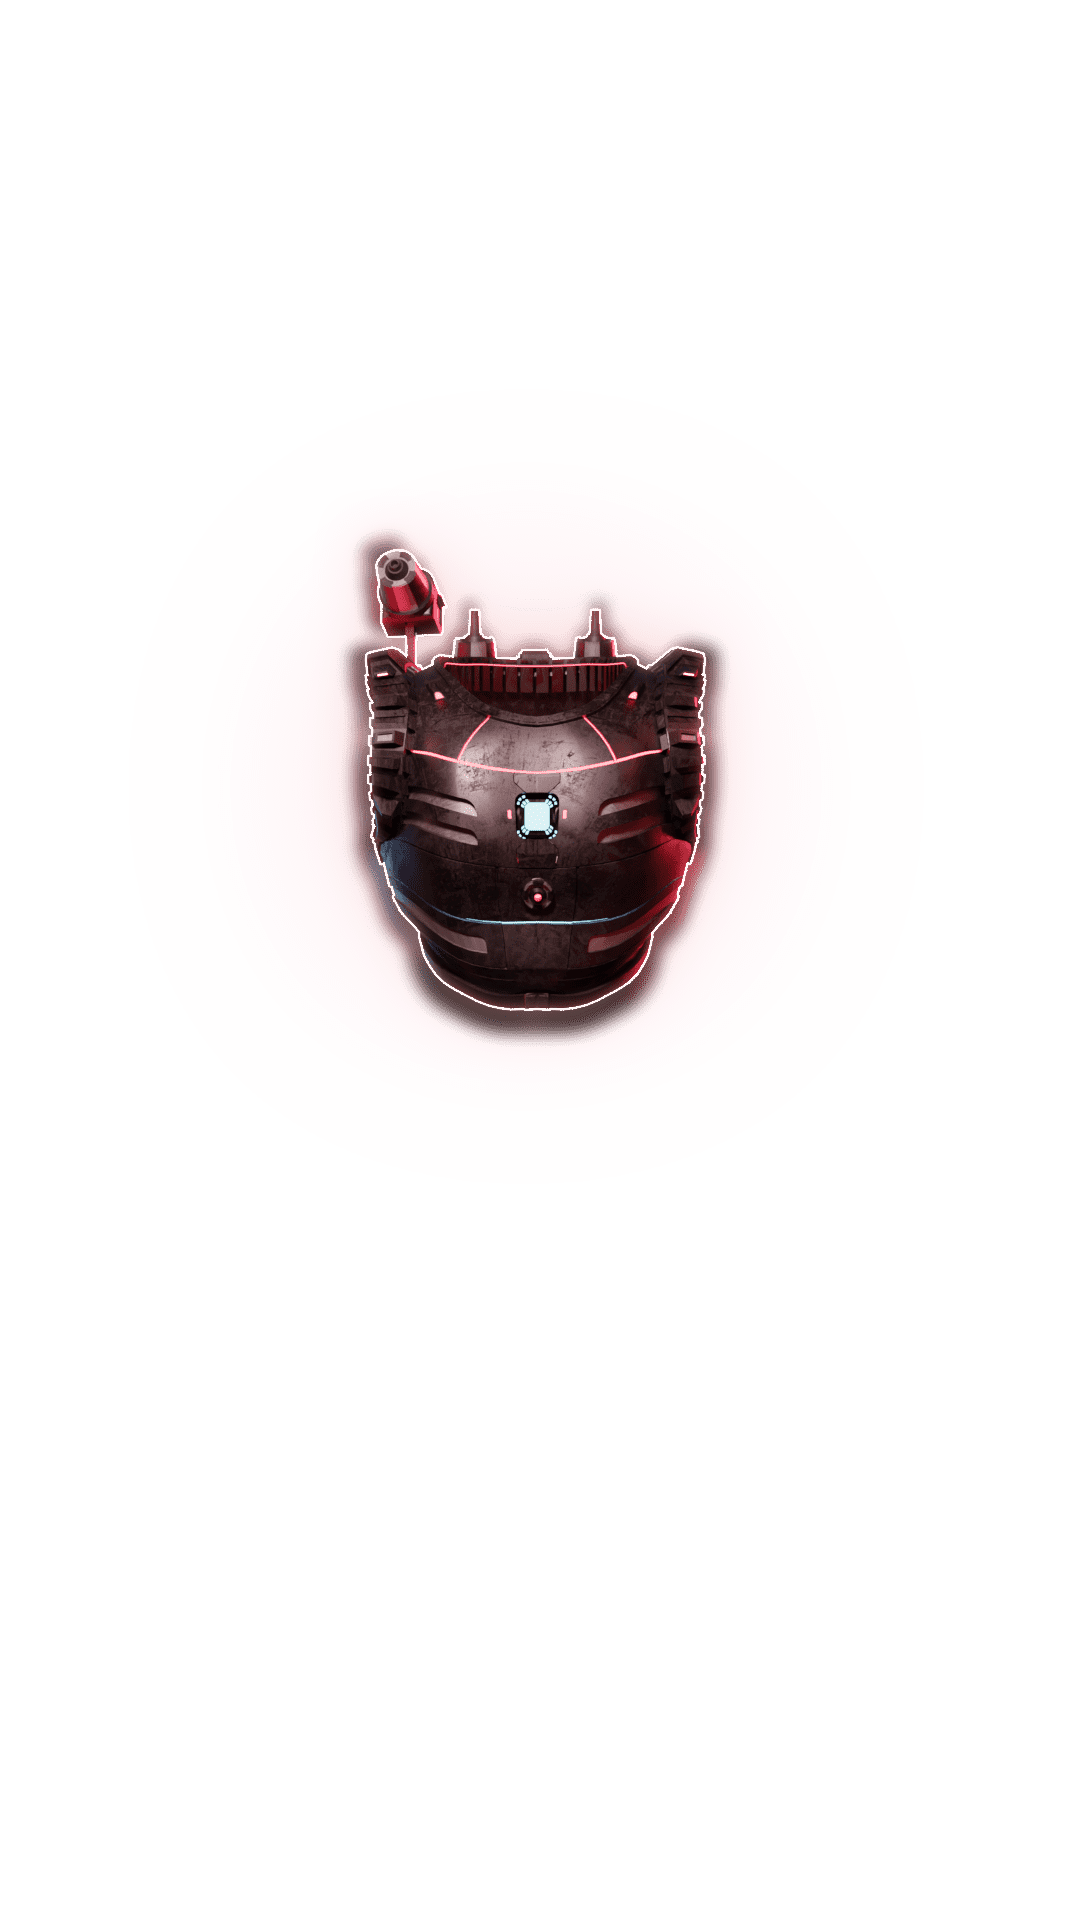
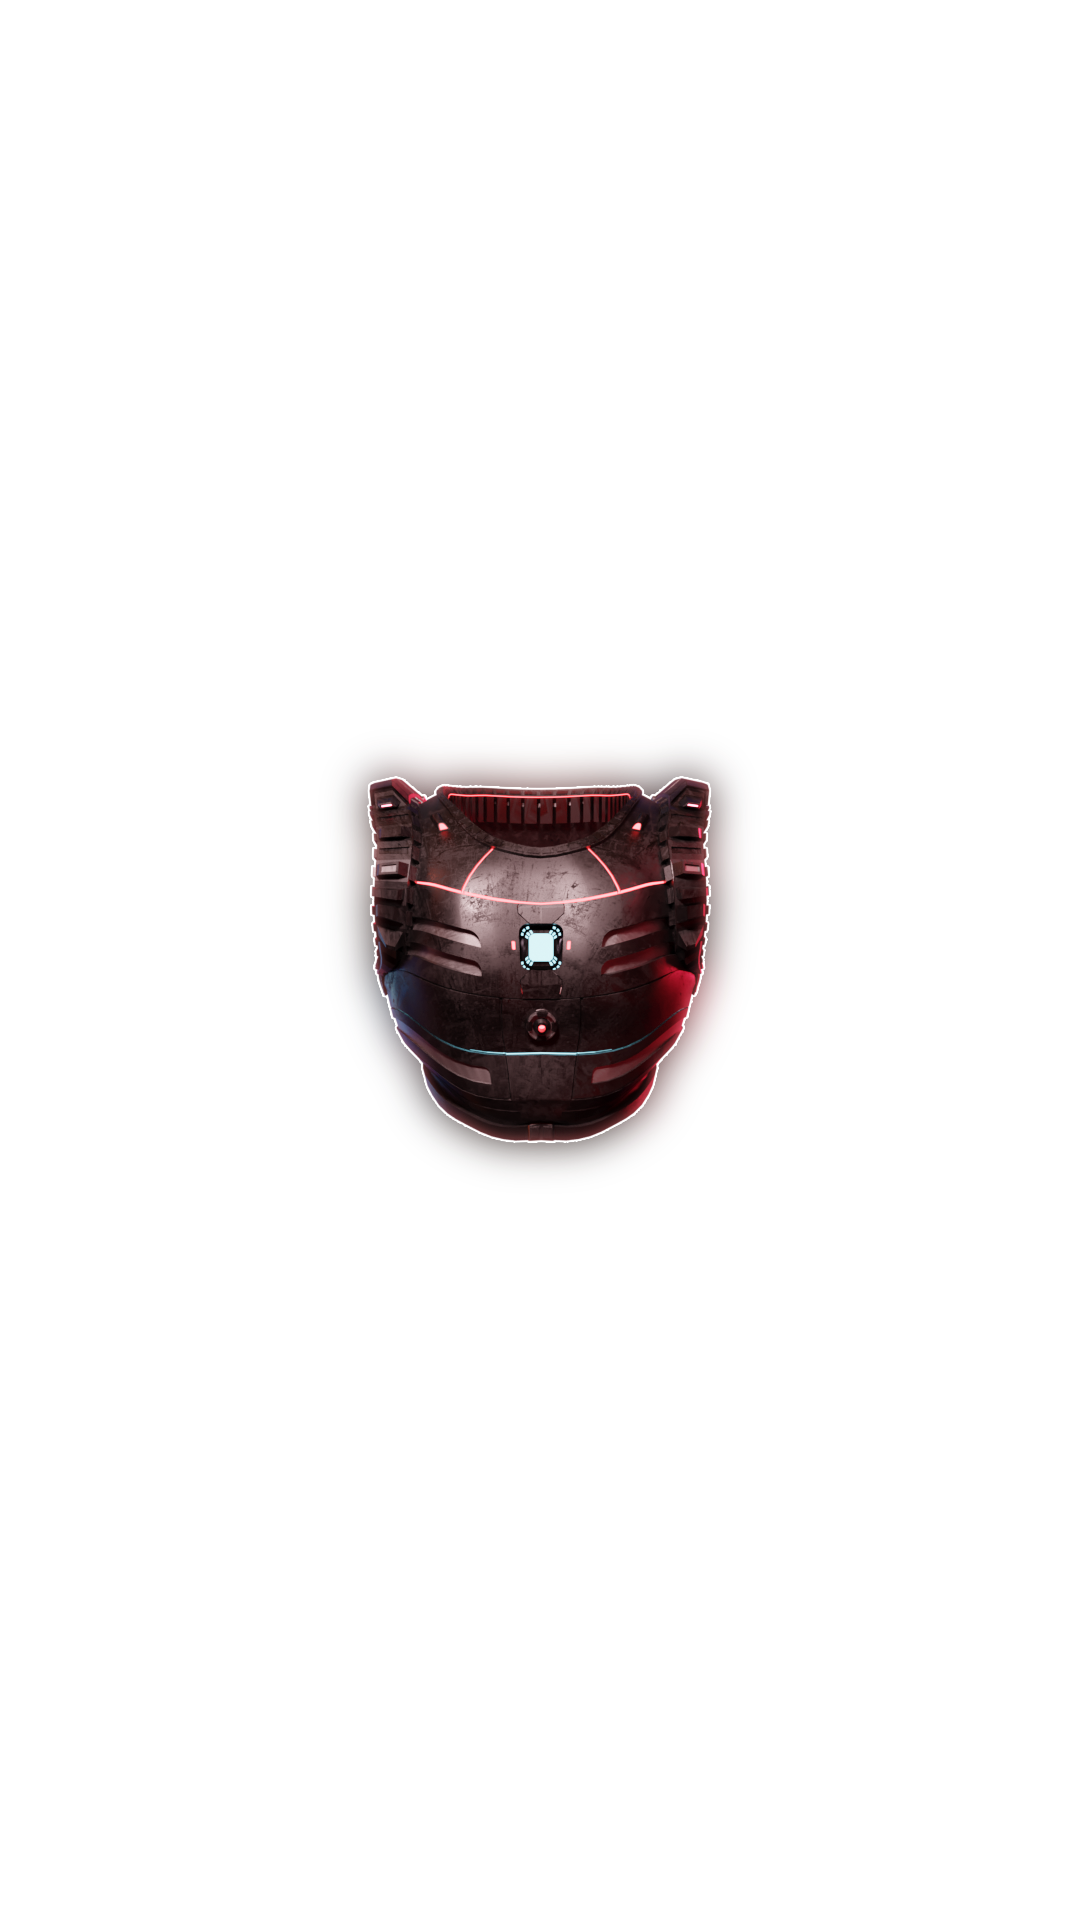
a

Changed region(s): [[0.3056, 0.25, 0.6722, 0.625]]

diff --git a/src/Components/Cyberlayers/CyberLayersElements.js b/src/Components/Cyberlayers/CyberLayersElements.js
@@ -69,6 +69,16 @@ export const CyberRabbit = styled.img`
     z-index: 1;
 `
 
+export const CyberRabbits = styled.img`
+    position: absolute;
+    left: 50%;
+    transform: translate(-50%, 0);
+    width: 50vh;
+    height: auto;
+    overflow: hidden;
+    z-index: 1;
+`
+
 export const CyberHead = styled.img`
     position: absolute;
     bottom: 28%;
@@ -127,7 +137,7 @@ export const CyberGear = styled.img`
 
 export const CyberSuit = styled.img`
     position: absolute;
-    top: 8%;
+    top: 1%;
     left: 50%;
     transform: translate(-50%, 0);
     width: 50vh;
@@ -141,14 +151,14 @@ export const CyberSuit = styled.img`
 
     @keyframes suit {
         0% {
-            top: 8%;
+            top: 1%;
             left: 50%;
             transform: translate(-50%, 0);
         }
         100% { 
-            top: 8%;
+            Ytop: 8%;
             left: 30%;
-            transform: translate(-50%, 0);
+            transform: translate(-50%, 0); 
          }
     }
 `
@@ -216,7 +226,7 @@ export const CyberRHand = styled.img`
 
 export const CyberPants = styled.img`
     position: absolute;
-    top: 17%;
+    top: 15%;
     left: 50%;
     transform: translate(-50%, 0);
     width: 50vh;
@@ -230,14 +240,14 @@ export const CyberPants = styled.img`
 
     @keyframes pants {
         0% {
-            top: 17%;
+            top: 15%;
             left: 50%;
             transform: translate(-50%, 0);
         }
         100% { 
             top: 35%;
             left: 70%;
-            transform: translate(-50%, 0);
+            transform: translate(-50%, 0); 
          }
     }
 `

diff --git a/public/index.html b/public/index.html
@@ -2,14 +2,14 @@
 <html lang="en">
   <head>
     <meta charset="utf-8" />
-    <link rel="icon" href="%PUBLIC_URL%/favicon.ico" />
+    <link rel="icon" href="%PUBLIC_URL%/CR.png" />
     <meta name="viewport" content="width=device-width, initial-scale=1 maximum-scale=1, user-scalable=no"/>
     <meta name="theme-color" content="#000000" />
     <meta
       name="description"
       content="Web site created using create-react-app"
     />
-    <link rel="apple-touch-icon" href="%PUBLIC_URL%/logo192.png" />
+    <link rel="apple-touch-icon" href="%PUBLIC_URL%/CR.png"/>
     <!--
       manifest.json provides metadata used when your web app is installed on a
       user's mobile device or desktop. See https://developers.google.com/web/fundamentals/web-app-manifest/
@@ -24,7 +24,7 @@
       work correctly both with client-side routing and a non-root public URL.
       Learn how to configure a non-root public URL by running `npm run build`.
     -->
-    <title>React App</title>
+    <title>Cyber Rabbit</title>
   </head>
   <body>
     <noscript>You need to enable JavaScript to run this app.</noscript>

diff --git a/src/Components/Cyberlayers/index.js b/src/Components/Cyberlayers/index.js
@@ -2,7 +2,7 @@ import React, {useRef, useEffect, useState} from 'react'
 import { useInView } from 'react-intersection-observer'
 import { CyberContainer, CyberBg, CyberContent, CyberRow, CyberColumn,
         CyberRabbit, CyberPants, CyberGear, CyberSuit, CyberHead,
-        CyberLHand, CyberRHand} from "./CyberLayersElements"
+        CyberLHand, CyberRHand, CyberRabbits} from "./CyberLayersElements"
 
 import rabbit from '../../Image/cyberlayersAssets/rabbit.png'
 import head from '../../Image/cyberlayersAssets/Head.png'
@@ -16,13 +16,20 @@ const CyberLayers = () => {
   const { ref, inView } = useInView({
 		rootMargin: '-100px',
 	});
+
+  const [ onPlay, setOnPlay] = useState(false);
+
+  
+
   return (
     <CyberContainer>
         <CyberBg>
 
         </CyberBg>
 
-        <CyberRabbit src={rabbit} ref={ref}/>
+        <CyberRabbit src={rabbit} onClick={inView ? 'animation' : ''}/>
+        
+        <CyberRabbits src={rabbit} onClick={inView ? 'animation' : ''} ref={ref} />
 
         <CyberHead src={head} className={inView ? 'animation' : ''}/>
 
